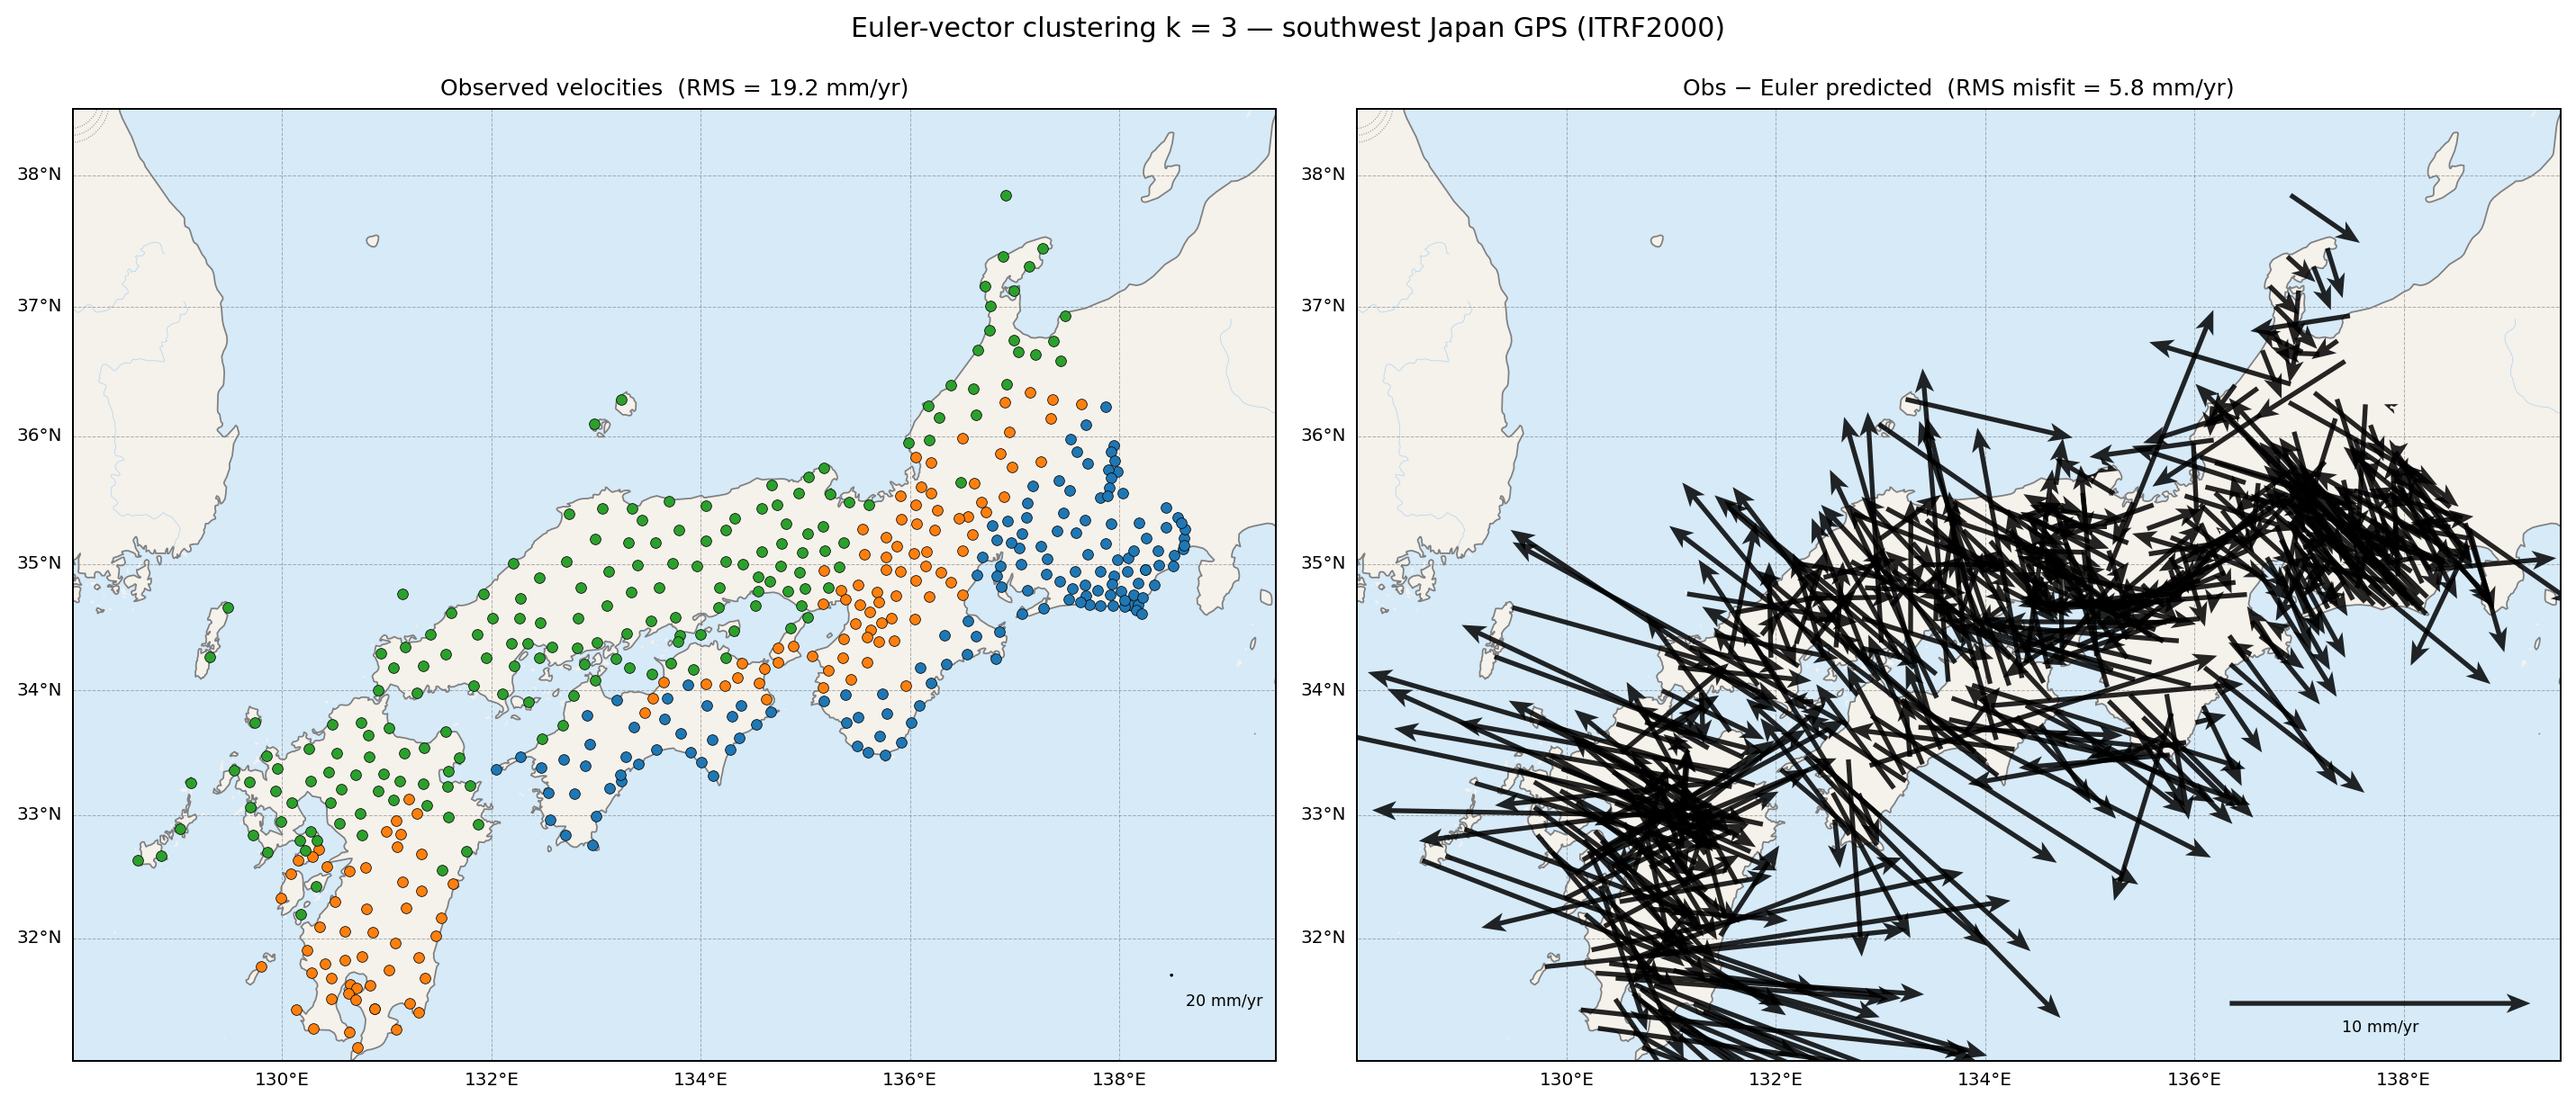
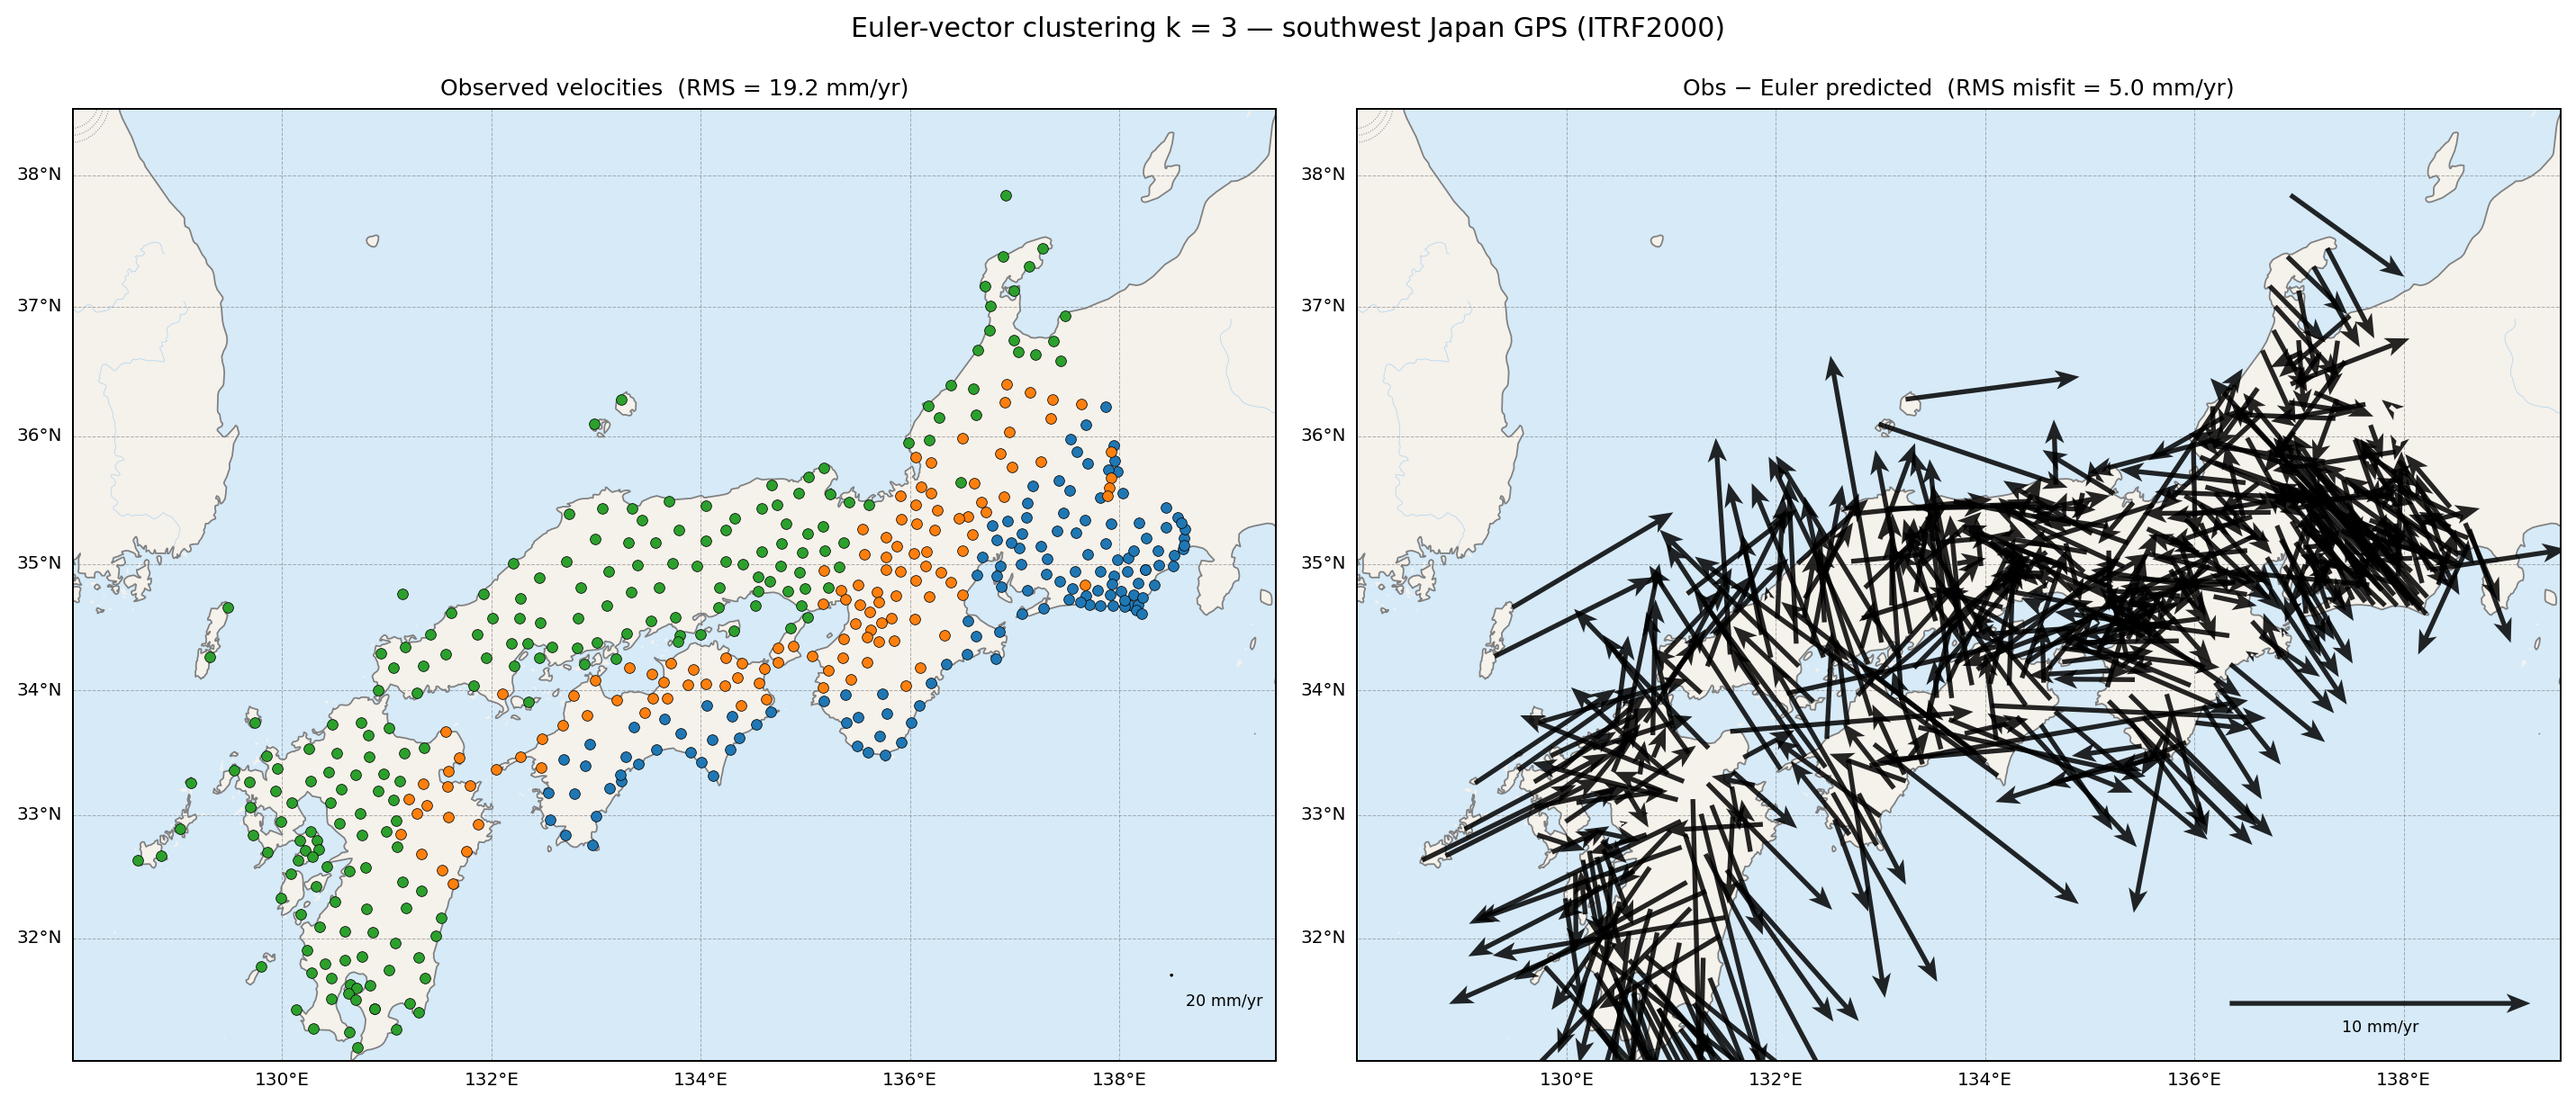
fix(algorithm): match Savage (2018) reassignment criterion and extend figures
Algorithm:
- Switch _reassign() from weighted chi² to unweighted velocity magnitude
  sqrt(dVe²+dVn²), matching Savage (2018) exactly. k=3 RMS improves
  5.8 → 5.0 mm/yr (paper: 4.95 mm/yr).
- Keep weighted_residual_sq() for chi² bookkeeping; add unweighted_residual_sq().
- Add weighted_reassign=False parameter to EulerVectorClustering for reference.
- Increase default n_restarts 20 → 100 (paper uses 3,000; 100 is practical).

Figures:
- Fig 7: extend k=2..5 to k=2..9, dots only — matching paper Fig 2.
- Fig 8 (new): ω-space 3D scatter of Euler vectors (cf. paper Figs 3 & 4),
  showing the collinearity across k values.

Tests:
- Add TestUnweightedResidualSq: zero for exact prediction, independence
  from sigma, and divergence from weighted when se≠sn≠1.

Note: 1 station difference (468 vs paper's 469) traced to source CSV.

diff --git a/scripts/plot_japan_clusters.py b/scripts/plot_japan_clusters.py
@@ -101,6 +101,13 @@ def _geo_init_labels(stations_list, k):
     labels = -labels
     return labels
 
+# ── Earth radius for ω-space conversion ─────────────────────────────────────
+_R_MM = 6_371_000.0 * 1_000.0  # mm
+
+def _omega_deg_per_ma(euler_vec) -> np.ndarray:
+    """Convert EulerVector (mm/yr) → Cartesian (ωx, ωy, ωz) in °/Ma."""
+    return euler_vec.to_array() / _R_MM * np.degrees(1) * 1e6
+
 # ── helpers ───────────────────────────────────────────────────────────────────
 
 def _basemap(ax, extent=EXTENT):
@@ -391,34 +398,60 @@ fig.savefig(OUT / "fig6_residuals_k3.png", dpi=180, bbox_inches="tight")
 plt.close(fig)
 
 # ═══════════════════════════════════════════════════════════════════════════════
-# Figure 7 — 2×2 grid: k = 2, 3, 4, 5
+# Figure 7 — 4×2 grid: k = 2..9  (dots only, matching Savage 2018 Fig 2)
 # ═══════════════════════════════════════════════════════════════════════════════
-print("Plotting Fig 7: k = 2–5 comparison …")
-fig, axes = plt.subplots(2, 2, figsize=(16, 12),
+print("Plotting Fig 7: k = 2–9 cluster maps …")
+all_clusters_k = {}   # cache for ω-space plot
+fig, axes = plt.subplots(4, 2, figsize=(14, 22),
                          subplot_kw={"projection": ccrs.Mercator()})
 axes = axes.flatten()
 
-for ax, k in zip(axes, [2, 3, 4, 5]):
+for ax, k in zip(axes, range(2, 10)):
     _basemap(ax)
     clusters_k = evc.cluster(stations, k=k,
                               init_labels=_geo_init_labels(stations, k))
+    all_clusters_k[k] = clusters_k
     for c in clusters_k:
-        col  = CMAP(c.id - 1)
-        pole = euler_vector_to_pole(c.euler_vector)
-        _scatter(ax, c.stations, color=col, s=18)
-        _quiver(ax, c.stations, color=col, scale=20)
-        _pole_marker(ax, pole, color=col)
-
-    _ref_arrow(ax, label=False)
+        col = CMAP(c.id - 1)
+        _scatter(ax, c.stations, color=col, s=12)
 
     rms_k = _rms(clusters_k)
-    chi2r = ftest.chi2_reduced[k - 1]
-    ax.set_title(f"k = {k}   RMS = {rms_k:.1f} mm/yr   χ²_red = {chi2r:.0f}", fontsize=10)
+    ax.set_title(f"k = {k}   rms = {rms_k:.2f} mm/yr", fontsize=10)
 
 fig.suptitle("Euler-vector clustering — southwest Japan GPS (ITRF2000)\n"
-             "★ = Euler pole (if inside map region)", fontsize=12)
+             "Coloured dots = cluster assignment  (cf. Savage 2018 Fig 2)", fontsize=11)
 fig.tight_layout()
-fig.savefig(OUT / "fig7_k2345_comparison.png", dpi=180, bbox_inches="tight")
+fig.savefig(OUT / "fig7_k2to9_clusters.png", dpi=150, bbox_inches="tight")
+plt.close(fig)
+
+# ═══════════════════════════════════════════════════════════════════════════════
+# Figure 8 — ω-space scatter (Euler vectors in Cartesian °/Ma, k = 2..9)
+#            Equivalent to Savage (2018) Figs 3 & 4
+# ═══════════════════════════════════════════════════════════════════════════════
+print("Plotting Fig 8: ω-space Euler vectors …")
+fig, axes8 = plt.subplots(4, 2, figsize=(12, 20),
+                           subplot_kw={"projection": "3d"})
+axes8 = axes8.flatten()
+
+for ax, k in zip(axes8, range(2, 10)):
+    clusters_k = all_clusters_k[k]
+    for c in clusters_k:
+        if c.euler_vector is None:
+            continue
+        col = CMAP(c.id - 1)
+        wx, wy, wz = _omega_deg_per_ma(c.euler_vector)
+        ax.scatter(wx, wy, wz, color=col, s=80, edgecolors="k", linewidths=0.5, zorder=5)
+
+    ax.set_xlabel("ωx  (°/Ma)", fontsize=7, labelpad=2)
+    ax.set_ylabel("ωy  (°/Ma)", fontsize=7, labelpad=2)
+    ax.set_zlabel("ωz  (°/Ma)", fontsize=7, labelpad=2)
+    ax.tick_params(labelsize=6)
+    ax.set_title(f"k = {k}", fontsize=9)
+
+fig.suptitle("Euler vectors in ω-space  (°/Ma, ITRF2000)\n"
+             "cf. Savage (2018) Figs 3 & 4", fontsize=11)
+fig.tight_layout()
+fig.savefig(OUT / "fig8_omega_space.png", dpi=150, bbox_inches="tight")
 plt.close(fig)
 
 print(f"\nAll figures saved to {OUT}/")

diff --git a/src/gps_cluster/application/euler_clustering.py b/src/gps_cluster/application/euler_clustering.py
@@ -44,7 +44,8 @@ from gps_cluster.domain.entities import EulerVector, GpsStation, VelocityCluster
 from gps_cluster.domain.services.euler_math import (
     invert_euler_vector,
     total_chi_squared,
-    weighted_residual_sq,
+    unweighted_residual_sq,
+    weighted_residual_sq,  # kept for chi² bookkeeping; not used in Savage reassignment
 )
 
 _MIN_STATIONS_PER_CLUSTER = 2  # minimum for a determined Euler inversion
@@ -78,8 +79,14 @@ class EulerVectorClustering:
         chi²; more expensive but more robust.
     n_restarts:
         Number of additional random restarts used when ``init="multiscale"``.
+        Savage (2018) uses 3,000; default here is 100 for practical run-time.
     random_seed:
         Seed for random restarts.
+    weighted_reassign:
+        If True, reassign stations using the chi² criterion
+        ``(dVe/se)²+(dVn/sn)²`` (weighted by measurement uncertainties).
+        If False (default), use the unweighted Euclidean criterion
+        ``dVe²+dVn²``, matching Savage (2018).
     """
 
     def __init__(
@@ -87,14 +94,16 @@ class EulerVectorClustering:
         max_iter: int = 100,
         min_stations: int = _MIN_STATIONS_PER_CLUSTER,
         init: str = "velocity",
-        n_restarts: int = 20,
+        n_restarts: int = 100,
         random_seed: int = 0,
+        weighted_reassign: bool = False,
     ) -> None:
         self.max_iter = max_iter
         self.min_stations = min_stations
         self.init = init
         self.n_restarts = n_restarts
         self.random_seed = random_seed
+        self.weighted_reassign = weighted_reassign
 
     # ------------------------------------------------------------------
     # Public API
@@ -272,11 +281,18 @@ class EulerVectorClustering:
         stations: list[GpsStation],
         euler_map: dict[int, EulerVector],
     ) -> np.ndarray:
-        """Assign each station to the cluster with the smallest weighted residual."""
+        """Assign each station to the cluster with the smallest velocity residual.
+
+        Default (weighted_reassign=False): unweighted Euclidean distance in
+        velocity space — sqrt(dVe²+dVn²) — matching Savage (2018).
+        weighted_reassign=True uses the chi² criterion ((dVe/se)²+(dVn/sn)²),
+        kept for reference and comparison.
+        """
         cluster_ids = sorted(euler_map)
         new_labels = np.zeros(len(stations), dtype=int)
+        resid_fn = weighted_residual_sq if self.weighted_reassign else unweighted_residual_sq
         for i, s in enumerate(stations):
-            residuals = {cid: weighted_residual_sq(s, euler_map[cid]) for cid in cluster_ids}
+            residuals = {cid: resid_fn(s, euler_map[cid]) for cid in cluster_ids}
             new_labels[i] = min(residuals, key=residuals.get)
         return new_labels
 

diff --git a/tests/unit/domain/test_euler_math.py b/tests/unit/domain/test_euler_math.py
@@ -13,6 +13,7 @@ from gps_cluster.domain.services.euler_math import (
     euler_vector_to_pole,
     invert_euler_vector,
     predict_velocity,
+    unweighted_residual_sq,
     weighted_residual_sq,
 )
 
@@ -122,6 +123,36 @@ class TestInvertEulerVector:
         recovered = invert_euler_vector(stations)
         for s in stations:
             assert weighted_residual_sq(s, recovered) == pytest.approx(0.0, abs=1e-8)
+
+
+class TestUnweightedResidualSq:
+    def test_zero_for_exact_prediction(self):
+        """Exact prediction → zero unweighted residual."""
+        from gps_cluster.domain.entities import EulerPole
+        true_euler = euler_pole_to_vector(EulerPole(lat=30.0, lon=-100.0, rate=1.5))
+        s_dummy = GpsStation("x", Position(-105.0, 33.0), Velocity(0, 0, 0, 1, 1, 1))
+        ve, vn = predict_velocity(s_dummy, true_euler)
+        s = GpsStation("x", Position(-105.0, 33.0), Velocity(ve, vn, 0, 1, 1, 1))
+        assert unweighted_residual_sq(s, true_euler) == pytest.approx(0.0, abs=1e-10)
+
+    def test_differs_from_weighted_when_sigma_ne_1(self):
+        """When se != sn != 1, weighted and unweighted residuals must differ."""
+        s = GpsStation("x", Position(10.0, 35.0),
+                        Velocity(ve=5.0, vn=3.0, vu=0.0, se=0.5, sn=2.0, su=1.0))
+        euler = EulerVector(1.0, -0.5, 2.0)
+        w = weighted_residual_sq(s, euler)
+        u = unweighted_residual_sq(s, euler)
+        assert w != pytest.approx(u, rel=1e-3)
+
+    def test_independent_of_sigma(self):
+        """Unweighted residual must not change when only sigmas are scaled."""
+        s1 = GpsStation("x", Position(10.0, 35.0),
+                         Velocity(ve=5.0, vn=3.0, vu=0.0, se=1.0, sn=1.0, su=1.0))
+        s2 = GpsStation("x", Position(10.0, 35.0),
+                         Velocity(ve=5.0, vn=3.0, vu=0.0, se=0.1, sn=5.0, su=1.0))
+        euler = EulerVector(1.0, -0.5, 2.0)
+        assert unweighted_residual_sq(s1, euler) == pytest.approx(
+            unweighted_residual_sq(s2, euler), rel=1e-10)
 
 
 class TestEulerPoleConversions:

diff --git a/src/gps_cluster/domain/services/euler_math.py b/src/gps_cluster/domain/services/euler_math.py
@@ -113,11 +113,26 @@ def predict_velocity(station: GpsStation, euler: EulerVector) -> tuple[float, fl
 
 
 def weighted_residual_sq(station: GpsStation, euler: EulerVector) -> float:
-    """Weighted squared velocity residual: ((Ve_pred-Ve)/Se)^2 + ((Vn_pred-Vn)/Sn)^2."""
+    """Weighted squared velocity residual: ((Ve_pred-Ve)/Se)^2 + ((Vn_pred-Vn)/Sn)^2.
+
+    Kept for reference / chi² bookkeeping; NOT used in Savage (2018) reassignment.
+    """
     ve_pred, vn_pred = predict_velocity(station, euler)
     re = (ve_pred - station.velocity.ve) / station.velocity.se
     rn = (vn_pred - station.velocity.vn) / station.velocity.sn
     return re**2 + rn**2
+
+
+def unweighted_residual_sq(station: GpsStation, euler: EulerVector) -> float:
+    """Unweighted squared velocity residual: (Ve_pred-Ve)^2 + (Vn_pred-Vn)^2  [mm²/yr²].
+
+    This is the reassignment criterion used by Savage (2018) — minimise the
+    Euclidean distance in velocity space, ignoring measurement uncertainties.
+    """
+    ve_pred, vn_pred = predict_velocity(station, euler)
+    dve = ve_pred - station.velocity.ve
+    dvn = vn_pred - station.velocity.vn
+    return dve * dve + dvn * dvn
 
 
 def total_chi_squared(stations: list[GpsStation], euler: EulerVector) -> float:
